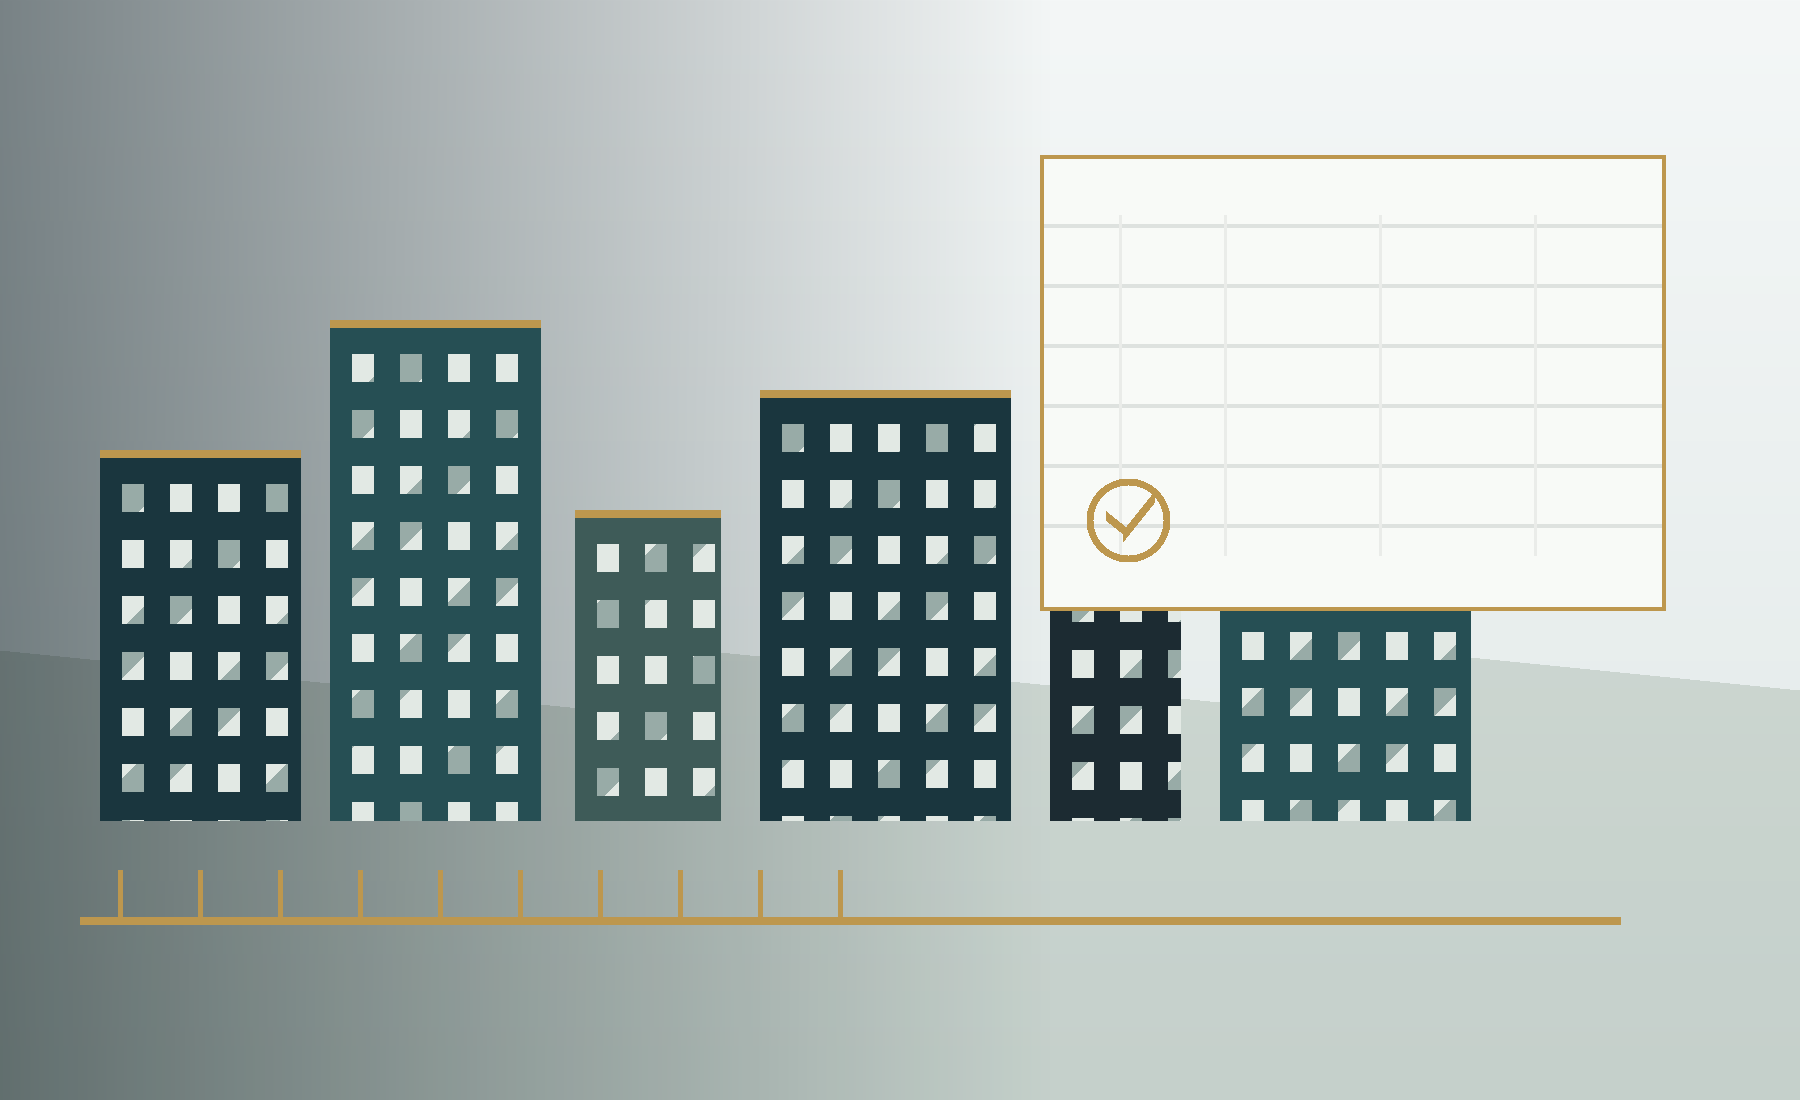
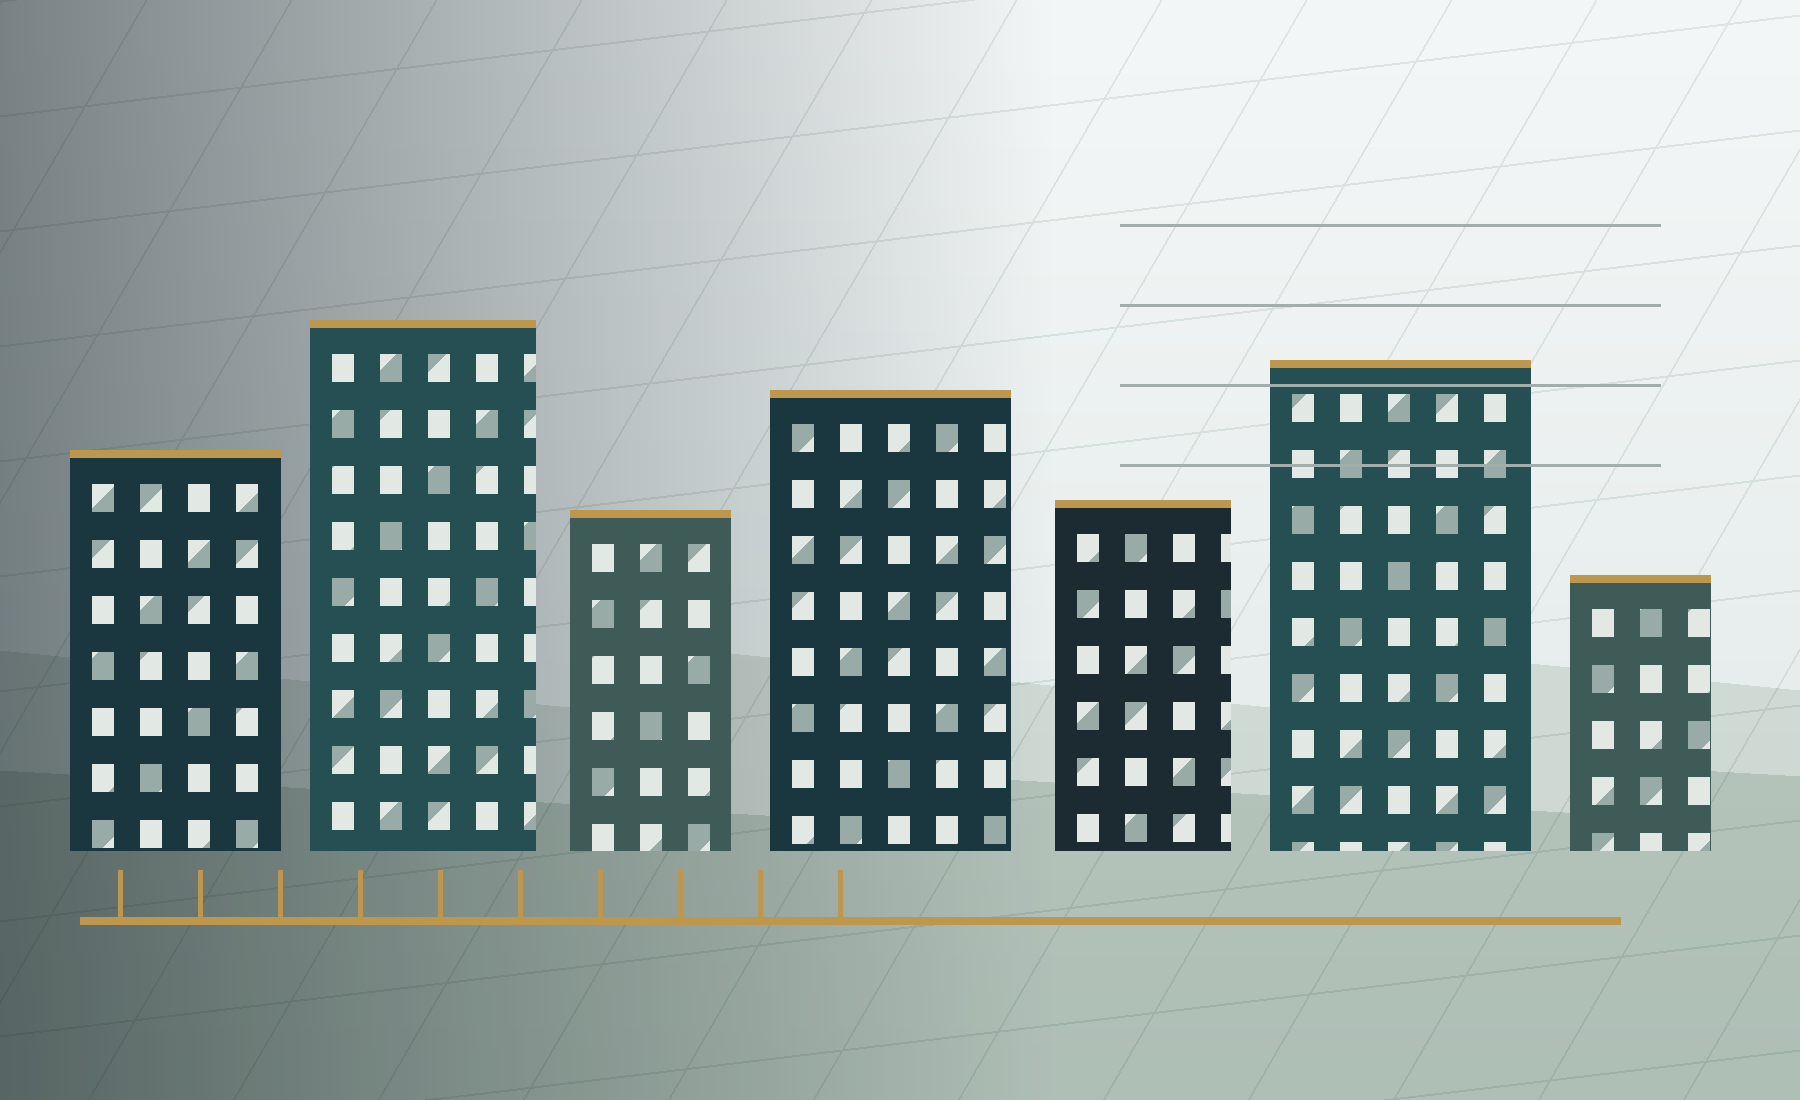
Refine hero and service area map

diff --git a/index.html b/index.html
@@ -29,7 +29,7 @@
       <section class="hero" aria-label="Value Added Assets commercial appraisal">
         <div class="hero-media"></div>
         <div class="hero-content">
-          <p class="eyebrow">Commercial appraisal and real estate consulting</p>
+          <p class="eyebrow hero-kicker">Commercial appraisals and real estate consulting</p>
           <h1>Independent valuation insight for lenders, counsel, owners, and investors.</h1>
           <p class="hero-copy">Value Added Assets LLC is a Portland-based appraisal and consulting firm led by Richard E. Cassinelli, MAI, AI-GRS, a commercial appraiser and consultant since 1987.</p>
           <div class="hero-actions">
@@ -87,9 +87,34 @@
           <p>Value Added Assets LLC provides appraisal and consulting services for properties located in Oregon, Washington, Idaho, and Texas, with Certified General Appraiser licenses also held in California and Utah.</p>
           <address>4804 NW Bethany Blvd., Suite I-2<br>Portland, OR 97229</address>
         </div>
-        <div class="market-map" aria-label="Service and licensing map">
-          <div class="map-line"></div>
-          <span style="--x:31%;--y:26%">OR</span><span style="--x:38%;--y:16%">WA</span><span style="--x:48%;--y:30%">ID</span><span style="--x:28%;--y:54%">CA</span><span style="--x:50%;--y:55%">UT</span><span style="--x:66%;--y:76%">TX</span>
+        <div class="market-map" aria-label="Western United States service and license map">
+          <svg class="west-map" viewBox="0 0 760 520" role="img" aria-labelledby="map-title map-desc">
+            <title id="map-title">Highlighted western United States map</title>
+            <desc id="map-desc">Oregon, Washington, California, Idaho, Utah, and Texas highlighted for Value Added Assets licensing and service coverage.</desc>
+            <rect class="map-water" x="0" y="0" width="760" height="520"/>
+            <path class="coast" d="M130 34L118 78L104 119L95 164L83 209L72 257L64 303L58 347L76 389L95 430L120 483"/>
+            <polygon class="state highlight" points="126,34 262,52 248,117 112,101"/>
+            <polygon class="state highlight" points="112,101 248,117 234,224 91,206"/>
+            <polygon class="state highlight" points="91,206 234,224 214,492 121,483 95,430 76,389 58,347 64,303 72,257"/>
+            <polygon class="state highlight" points="248,56 370,72 354,206 234,224 248,117"/>
+            <polygon class="state neighbor" points="370,72 497,89 474,224 354,206"/>
+            <polygon class="state neighbor" points="474,224 602,241 585,372 459,355"/>
+            <polygon class="state neighbor" points="354,206 474,224 459,355 336,338"/>
+            <polygon class="state highlight" points="336,338 459,355 441,470 321,452"/>
+            <polygon class="state neighbor" points="214,492 321,452 336,338 234,224"/>
+            <polygon class="state neighbor" points="602,241 711,256 694,386 585,372"/>
+            <polygon class="state highlight texas" points="470,388 589,375 705,413 720,470 685,494 617,486 589,512 548,480 503,484 454,452"/>
+            <text x="184" y="82">WA</text>
+            <text x="168" y="169">OR</text>
+            <text x="137" y="357">CA</text>
+            <text x="292" y="154">ID</text>
+            <text x="380" y="412">UT</text>
+            <text x="585" y="454">TX</text>
+          </svg>
+          <div class="map-legend">
+            <strong>Highlighted licensing footprint</strong>
+            <span>Oregon, Washington, California, Idaho, Utah, and Texas</span>
+          </div>
         </div>
       </section>
 

diff --git a/styles.css b/styles.css
@@ -1,1 +1,1 @@
-:root{--ink:#10292e;--ink-2:#254348;--muted:#657673;--line:#d9e1de;--paper:#f7f8f6;--white:#fff;--gold:#b99250;--gold-dark:#8d6b2f;--green:#15343a;--sage:#dfe7e3;--shadow:0 22px 55px rgba(16,41,46,.14)}*{box-sizing:border-box}html{scroll-behavior:smooth}body{margin:0;color:var(--ink);background:var(--paper);font-family:Inter,ui-sans-serif,system-ui,-apple-system,BlinkMacSystemFont,"Segoe UI",Arial,sans-serif;line-height:1.55}a{color:inherit;text-decoration:none}img{display:block;max-width:100%}.site-header{position:fixed;z-index:20;top:0;left:0;right:0;display:flex;align-items:center;justify-content:space-between;min-height:78px;padding:16px clamp(18px,4vw,58px);color:var(--white);transition:background .18s ease,box-shadow .18s ease,color .18s ease}.site-header[data-elevated=true],.site-header.open{color:var(--ink);background:rgba(255,255,255,.96);box-shadow:0 10px 40px rgba(16,41,46,.1);backdrop-filter:blur(16px)}.brand img{width:clamp(188px,23vw,285px);height:auto;filter:brightness(0) invert(1)}.site-header[data-elevated=true] .brand img,.site-header.open .brand img{filter:none}.site-nav{display:flex;align-items:center;gap:clamp(18px,2vw,32px);font-size:.89rem;font-weight:760}.site-nav a{padding:9px 0}.nav-cta{padding:10px 16px!important;border:1px solid currentColor}.nav-toggle{display:none}.hero{position:relative;min-height:790px;display:grid;align-items:end;padding:138px clamp(22px,6vw,86px) 72px;color:var(--white);overflow:hidden}.hero-media{position:absolute;inset:0;background:linear-gradient(90deg,rgba(10,32,37,.88),rgba(10,32,37,.46) 45%,rgba(10,32,37,.2)),url("assets/valuation-hero.png") center/cover no-repeat}.hero:after{content:"";position:absolute;left:0;right:0;bottom:0;height:150px;background:linear-gradient(0deg,var(--paper),rgba(247,248,246,0))}.hero-content{position:relative;z-index:2;width:min(760px,100%)}.eyebrow,.section-kicker{margin:0 0 14px;color:var(--gold);font-size:.78rem;font-weight:850;letter-spacing:.12em;text-transform:uppercase}h1,h2,h3,p{margin-top:0}h1{margin-bottom:24px;font-family:Georgia,"Times New Roman",serif;font-size:clamp(3rem,6vw,6.9rem);line-height:.98;font-weight:500}h2{margin-bottom:20px;font-family:Georgia,"Times New Roman",serif;font-size:clamp(2rem,3.7vw,4.25rem);line-height:1.05;font-weight:500}h3{margin-bottom:12px;font-size:1.06rem;line-height:1.2}.hero-copy{width:min(680px,100%);color:rgba(255,255,255,.86);font-size:clamp(1.08rem,1.7vw,1.35rem)}.hero-actions{display:flex;flex-wrap:wrap;gap:14px;margin-top:34px}.button{display:inline-flex;align-items:center;justify-content:center;min-height:48px;padding:13px 20px;border:1px solid transparent;font-weight:820;cursor:pointer;transition:transform .16s ease,background .16s ease,border-color .16s ease}.button:hover{transform:translateY(-2px)}.primary{color:var(--white);background:var(--gold)}.primary:hover{background:var(--gold-dark)}.secondary{color:var(--white);border-color:rgba(255,255,255,.62)}.secondary:hover{border-color:var(--white);background:rgba(255,255,255,.09)}.hero-panel{position:absolute;z-index:3;right:clamp(22px,5vw,70px);bottom:42px;display:grid;grid-template-columns:repeat(3,minmax(130px,1fr));width:min(680px,calc(100% - 44px));background:rgba(255,255,255,.95);color:var(--ink);box-shadow:var(--shadow)}.hero-panel div{padding:22px;border-right:1px solid var(--line)}.hero-panel div:last-child{border-right:0}.hero-panel strong{display:block;font-size:1.3rem;line-height:1.2}.hero-panel span{display:block;margin-top:6px;color:var(--muted);font-size:.9rem}.intro-band{max-width:1180px;margin:0 auto;padding:52px clamp(22px,4vw,42px) 76px}.intro-band p{max-width:980px;font-family:Georgia,"Times New Roman",serif;font-size:clamp(1.5rem,3.2vw,3.4rem);line-height:1.12}.section,.credentials,.client-band,.rfp-section{padding:88px clamp(22px,6vw,86px)}.section-heading{max-width:960px;margin-bottom:38px}.service-grid{display:grid;grid-template-columns:repeat(5,minmax(0,1fr));gap:1px;background:var(--line);border:1px solid var(--line)}.service-card{min-height:300px;padding:30px;background:var(--white)}.service-card span{display:block;margin-bottom:46px;color:var(--gold);font-weight:850}.service-card p,.credentials-copy p,.split p,.client-columns p,.rfp-intro p,.footer p{color:var(--muted)}.credentials{display:grid;grid-template-columns:minmax(0,.95fr) minmax(330px,.72fr);gap:clamp(38px,6vw,82px);align-items:center;color:var(--white);background:var(--green)}.credentials .eyebrow,.credentials-copy p{color:rgba(255,255,255,.72)}.credential-list{display:grid;grid-template-columns:repeat(2,minmax(0,1fr));border-top:1px solid rgba(255,255,255,.22);border-left:1px solid rgba(255,255,255,.22)}.credential-list div{padding:24px;border-right:1px solid rgba(255,255,255,.22);border-bottom:1px solid rgba(255,255,255,.22)}.credential-list strong,.credential-list span{display:block}.credential-list span{margin-top:5px;color:rgba(255,255,255,.7)}.split{display:grid;grid-template-columns:minmax(0,.75fr) minmax(320px,1fr);gap:clamp(38px,7vw,96px);align-items:center}address{margin-top:28px;color:var(--ink-2);font-style:normal;font-weight:780}.market-map{position:relative;min-height:430px;overflow:hidden;background:linear-gradient(90deg,rgba(21,52,58,.07) 1px,transparent 1px),linear-gradient(rgba(21,52,58,.07) 1px,transparent 1px),var(--sage);background-size:44px 44px}.market-map:before{content:"";position:absolute;inset:38px;border:1px solid rgba(21,52,58,.22)}.market-map span{position:absolute;left:var(--x);top:var(--y);width:58px;height:58px;display:grid;place-items:center;color:var(--white);background:var(--green);border:3px solid var(--gold);border-radius:50%;font-weight:900;box-shadow:var(--shadow)}.map-line{position:absolute;inset:18% 20% 18% 22%;border:3px solid rgba(185,146,80,.45);transform:skew(-18deg) rotate(8deg)}.client-band{background:var(--white)}.client-columns{display:grid;grid-template-columns:repeat(2,minmax(0,1fr));gap:1px;background:var(--line);border:1px solid var(--line)}.client-columns div{padding:clamp(28px,4vw,48px);background:var(--white)}.rfp-section{display:grid;grid-template-columns:minmax(0,.72fr) minmax(360px,1fr);gap:clamp(34px,6vw,84px);align-items:start}.rfp-intro{position:sticky;top:110px}.direct-contact{display:grid;gap:10px;margin-top:28px}.direct-contact a{color:var(--ink);font-weight:850}.rfp-form{display:grid;grid-template-columns:repeat(2,minmax(0,1fr));gap:18px;padding:clamp(24px,4vw,42px);background:var(--white);box-shadow:var(--shadow)}label{display:grid;gap:8px;color:var(--ink-2);font-size:.85rem;font-weight:820}input,select,textarea{width:100%;border:1px solid var(--line);border-radius:0;padding:13px 14px;color:var(--ink);background:#fbfcfb;font:inherit}textarea{resize:vertical}input:focus,select:focus,textarea:focus{outline:2px solid rgba(185,146,80,.45);border-color:var(--gold)}.wide{grid-column:1/-1}.form-note{grid-column:1/-1;margin:0;color:var(--muted);font-size:.92rem}.footer{display:grid;grid-template-columns:1.2fr .7fr .45fr;gap:40px;padding:54px clamp(22px,6vw,86px);color:var(--white);background:#081d21}.footer img{width:248px;margin-bottom:18px;filter:brightness(0) invert(1)}.footer strong,.footer span,.footer a{display:block}.footer span,.footer a{margin-top:8px;color:rgba(255,255,255,.72)}@media (max-width:1060px){.service-grid{grid-template-columns:repeat(2,minmax(0,1fr))}.credentials,.split,.rfp-section{grid-template-columns:1fr}.rfp-intro{position:static}}@media (max-width:820px){.site-header{min-height:68px}.nav-toggle{display:grid;gap:7px;width:44px;height:44px;border:1px solid currentColor;background:transparent;color:inherit;place-content:center}.nav-toggle span{width:20px;height:2px;background:currentColor}.site-nav{position:absolute;top:100%;left:0;right:0;display:none;padding:18px 22px 26px;color:var(--ink);background:rgba(255,255,255,.98);box-shadow:0 20px 34px rgba(16,41,46,.1)}.site-header.open .site-nav{display:grid}.hero{min-height:980px;padding-top:108px;padding-bottom:380px}.hero-panel{left:22px;right:22px;bottom:34px;grid-template-columns:1fr}.hero-panel div{border-right:0;border-bottom:1px solid var(--line)}.hero-panel div:last-child{border-bottom:0}.intro-band{padding-top:30px}.client-columns,.footer,.rfp-form{grid-template-columns:1fr}.wide{grid-column:auto}}@media (max-width:620px){h1{font-size:2.78rem}.service-grid,.credential-list{grid-template-columns:1fr}.section,.credentials,.client-band,.rfp-section{padding-top:64px;padding-bottom:64px}.market-map{min-height:340px}}
+:root{--ink:#10292e;--ink-2:#254348;--muted:#657673;--line:#d9e1de;--paper:#f7f8f6;--white:#fff;--gold:#b99250;--gold-dark:#8d6b2f;--green:#15343a;--sage:#dfe7e3;--shadow:0 22px 55px rgba(16,41,46,.14)}*{box-sizing:border-box}html{scroll-behavior:smooth}body{margin:0;color:var(--ink);background:var(--paper);font-family:Inter,ui-sans-serif,system-ui,-apple-system,BlinkMacSystemFont,"Segoe UI",Arial,sans-serif;line-height:1.55}a{color:inherit;text-decoration:none}img{display:block;max-width:100%}.site-header{position:fixed;z-index:20;top:0;left:0;right:0;display:flex;align-items:center;justify-content:space-between;min-height:78px;padding:16px clamp(18px,4vw,58px);color:var(--white);transition:background .18s ease,box-shadow .18s ease,color .18s ease}.site-header[data-elevated=true],.site-header.open{color:var(--ink);background:rgba(255,255,255,.96);box-shadow:0 10px 40px rgba(16,41,46,.1);backdrop-filter:blur(16px)}.brand img{width:clamp(188px,23vw,285px);height:auto;filter:brightness(0) invert(1)}.site-header[data-elevated=true] .brand img,.site-header.open .brand img{filter:none}.site-nav{display:flex;align-items:center;gap:clamp(18px,2vw,32px);font-size:.89rem;font-weight:760}.site-nav a{padding:9px 0}.nav-cta{padding:10px 16px!important;border:1px solid currentColor}.nav-toggle{display:none}.hero{position:relative;min-height:790px;display:grid;align-items:end;padding:138px clamp(22px,6vw,86px) 72px;color:var(--white);overflow:hidden}.hero-media{position:absolute;inset:0;background:linear-gradient(90deg,rgba(10,32,37,.9),rgba(10,32,37,.5) 46%,rgba(10,32,37,.18)),url("assets/valuation-hero.png") center/cover no-repeat}.hero:after{content:"";position:absolute;left:0;right:0;bottom:0;height:150px;background:linear-gradient(0deg,var(--paper),rgba(247,248,246,0))}.hero-content{position:relative;z-index:2;width:min(780px,100%)}.eyebrow,.section-kicker{margin:0 0 14px;color:var(--gold);font-size:.78rem;font-weight:850;letter-spacing:.12em;text-transform:uppercase}.hero .hero-kicker{display:inline-flex;max-width:100%;margin-bottom:18px;padding:10px 14px;color:#fff;background:rgba(185,146,80,.94);font-size:clamp(1rem,1.35vw,1.26rem);line-height:1.25;letter-spacing:.08em;box-shadow:0 12px 28px rgba(0,0,0,.18)}h1,h2,h3,p{margin-top:0}h1{margin-bottom:24px;font-family:Georgia,"Times New Roman",serif;font-size:clamp(3rem,6vw,6.9rem);line-height:.98;font-weight:500}h2{margin-bottom:20px;font-family:Georgia,"Times New Roman",serif;font-size:clamp(2rem,3.7vw,4.25rem);line-height:1.05;font-weight:500}h3{margin-bottom:12px;font-size:1.06rem;line-height:1.2}.hero-copy{width:min(680px,100%);color:rgba(255,255,255,.88);font-size:clamp(1.08rem,1.7vw,1.35rem)}.hero-actions{display:flex;flex-wrap:wrap;gap:14px;margin-top:34px}.button{display:inline-flex;align-items:center;justify-content:center;min-height:48px;padding:13px 20px;border:1px solid transparent;font-weight:820;cursor:pointer;transition:transform .16s ease,background .16s ease,border-color .16s ease}.button:hover{transform:translateY(-2px)}.primary{color:var(--white);background:var(--gold)}.primary:hover{background:var(--gold-dark)}.secondary{color:var(--white);border-color:rgba(255,255,255,.62)}.secondary:hover{border-color:var(--white);background:rgba(255,255,255,.09)}.hero-panel{position:absolute;z-index:3;right:clamp(22px,5vw,70px);bottom:42px;display:grid;grid-template-columns:repeat(3,minmax(130px,1fr));width:min(680px,calc(100% - 44px));background:rgba(255,255,255,.95);color:var(--ink);box-shadow:var(--shadow)}.hero-panel div{padding:22px;border-right:1px solid var(--line)}.hero-panel div:last-child{border-right:0}.hero-panel strong{display:block;font-size:1.3rem;line-height:1.2}.hero-panel span{display:block;margin-top:6px;color:var(--muted);font-size:.9rem}.intro-band{max-width:1180px;margin:0 auto;padding:52px clamp(22px,4vw,42px) 76px}.intro-band p{max-width:980px;font-family:Georgia,"Times New Roman",serif;font-size:clamp(1.5rem,3.2vw,3.4rem);line-height:1.12}.section,.credentials,.client-band,.rfp-section{padding:88px clamp(22px,6vw,86px)}.section-heading{max-width:960px;margin-bottom:38px}.service-grid{display:grid;grid-template-columns:repeat(5,minmax(0,1fr));gap:1px;background:var(--line);border:1px solid var(--line)}.service-card{min-height:300px;padding:30px;background:var(--white)}.service-card span{display:block;margin-bottom:46px;color:var(--gold);font-weight:850}.service-card p,.credentials-copy p,.split p,.client-columns p,.rfp-intro p,.footer p{color:var(--muted)}.credentials{display:grid;grid-template-columns:minmax(0,.95fr) minmax(330px,.72fr);gap:clamp(38px,6vw,82px);align-items:center;color:var(--white);background:var(--green)}.credentials .eyebrow,.credentials-copy p{color:rgba(255,255,255,.72)}.credential-list{display:grid;grid-template-columns:repeat(2,minmax(0,1fr));border-top:1px solid rgba(255,255,255,.22);border-left:1px solid rgba(255,255,255,.22)}.credential-list div{padding:24px;border-right:1px solid rgba(255,255,255,.22);border-bottom:1px solid rgba(255,255,255,.22)}.credential-list strong,.credential-list span{display:block}.credential-list span{margin-top:5px;color:rgba(255,255,255,.7)}.split{display:grid;grid-template-columns:minmax(0,.75fr) minmax(320px,1fr);gap:clamp(38px,7vw,96px);align-items:center}address{margin-top:28px;color:var(--ink-2);font-style:normal;font-weight:780}.market-map{position:relative;min-height:430px;overflow:hidden;background:linear-gradient(135deg,#e4ece8,#f7f8f6);border:1px solid var(--line);box-shadow:var(--shadow)}.market-map:before{content:none}.west-map{display:block;width:100%;height:auto;min-height:360px;padding:24px}.map-water{fill:#dfe8e4}.state{stroke:#fff;stroke-width:5;stroke-linejoin:round}.neighbor{fill:#c9d6d1}.highlight{fill:#15343a;filter:drop-shadow(0 8px 16px rgba(16,41,46,.16))}.texas{fill:#1d4a50}.coast{fill:none;stroke:#8ca19c;stroke-width:5;stroke-linecap:round}.west-map text{fill:#fff;font-size:34px;font-weight:900;letter-spacing:0;text-anchor:middle;font-family:Arial,Helvetica,sans-serif}.map-legend{position:absolute;left:24px;right:24px;bottom:22px;display:grid;gap:2px;padding:14px 16px;background:rgba(255,255,255,.92);border-left:5px solid var(--gold);box-shadow:0 14px 30px rgba(16,41,46,.11)}.map-legend strong{font-size:.95rem}.market-map .map-legend span{position:static;display:block;width:auto;height:auto;margin:0;padding:0;color:var(--muted);background:transparent;border:0;border-radius:0;box-shadow:none;font-size:.9rem;font-weight:650}.client-band{background:var(--white)}.client-columns{display:grid;grid-template-columns:repeat(2,minmax(0,1fr));gap:1px;background:var(--line);border:1px solid var(--line)}.client-columns div{padding:clamp(28px,4vw,48px);background:var(--white)}.rfp-section{display:grid;grid-template-columns:minmax(0,.72fr) minmax(360px,1fr);gap:clamp(34px,6vw,84px);align-items:start}.rfp-intro{position:sticky;top:110px}.direct-contact{display:grid;gap:10px;margin-top:28px}.direct-contact a{color:var(--ink);font-weight:850}.rfp-form{display:grid;grid-template-columns:repeat(2,minmax(0,1fr));gap:18px;padding:clamp(24px,4vw,42px);background:var(--white);box-shadow:var(--shadow)}label{display:grid;gap:8px;color:var(--ink-2);font-size:.85rem;font-weight:820}input,select,textarea{width:100%;border:1px solid var(--line);border-radius:0;padding:13px 14px;color:var(--ink);background:#fbfcfb;font:inherit}textarea{resize:vertical}input:focus,select:focus,textarea:focus{outline:2px solid rgba(185,146,80,.45);border-color:var(--gold)}.wide{grid-column:1/-1}.form-note{grid-column:1/-1;margin:0;color:var(--muted);font-size:.92rem}.footer{display:grid;grid-template-columns:1.2fr .7fr .45fr;gap:40px;padding:54px clamp(22px,6vw,86px);color:var(--white);background:#081d21}.footer img{width:248px;margin-bottom:18px;filter:brightness(0) invert(1)}.footer strong,.footer span,.footer a{display:block}.footer span,.footer a{margin-top:8px;color:rgba(255,255,255,.72)}@media (max-width:1060px){.service-grid{grid-template-columns:repeat(2,minmax(0,1fr))}.credentials,.split,.rfp-section{grid-template-columns:1fr}.rfp-intro{position:static}}@media (max-width:820px){.site-header{min-height:68px}.nav-toggle{display:grid;gap:7px;width:44px;height:44px;border:1px solid currentColor;background:transparent;color:inherit;place-content:center}.nav-toggle span{width:20px;height:2px;background:currentColor}.site-nav{position:absolute;top:100%;left:0;right:0;display:none;padding:18px 22px 26px;color:var(--ink);background:rgba(255,255,255,.98);box-shadow:0 20px 34px rgba(16,41,46,.1)}.site-header.open .site-nav{display:grid}.hero{min-height:980px;padding-top:108px;padding-bottom:380px}.hero-panel{left:22px;right:22px;bottom:34px;grid-template-columns:1fr}.hero-panel div{border-right:0;border-bottom:1px solid var(--line)}.hero-panel div:last-child{border-bottom:0}.intro-band{padding-top:30px}.client-columns,.footer,.rfp-form{grid-template-columns:1fr}.wide{grid-column:auto}.west-map{min-height:330px;padding:14px}.map-legend{position:relative;left:auto;right:auto;bottom:auto;margin:0 16px 18px}}@media (max-width:620px){h1{font-size:2.78rem}.hero .hero-kicker{font-size:.92rem}.service-grid,.credential-list{grid-template-columns:1fr}.section,.credentials,.client-band,.rfp-section{padding-top:64px;padding-bottom:64px}.market-map{min-height:340px}.west-map text{font-size:30px}}